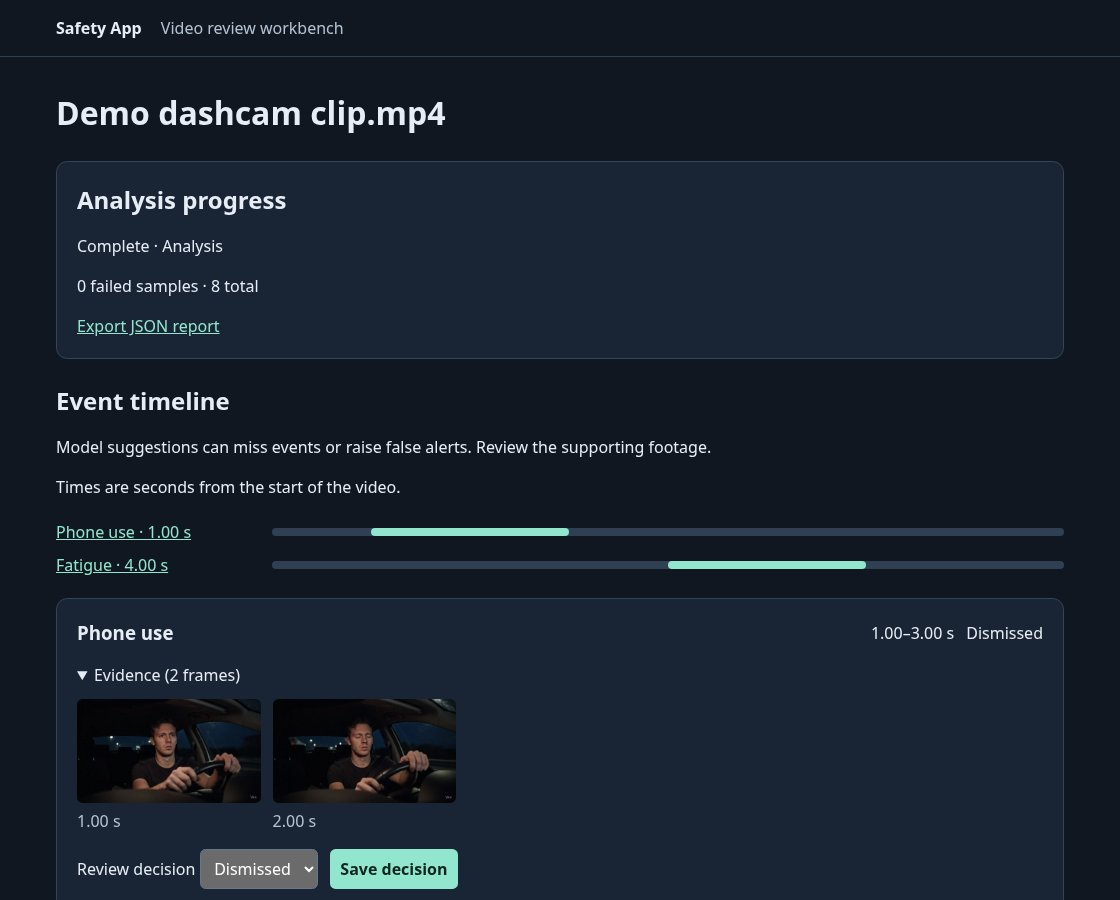
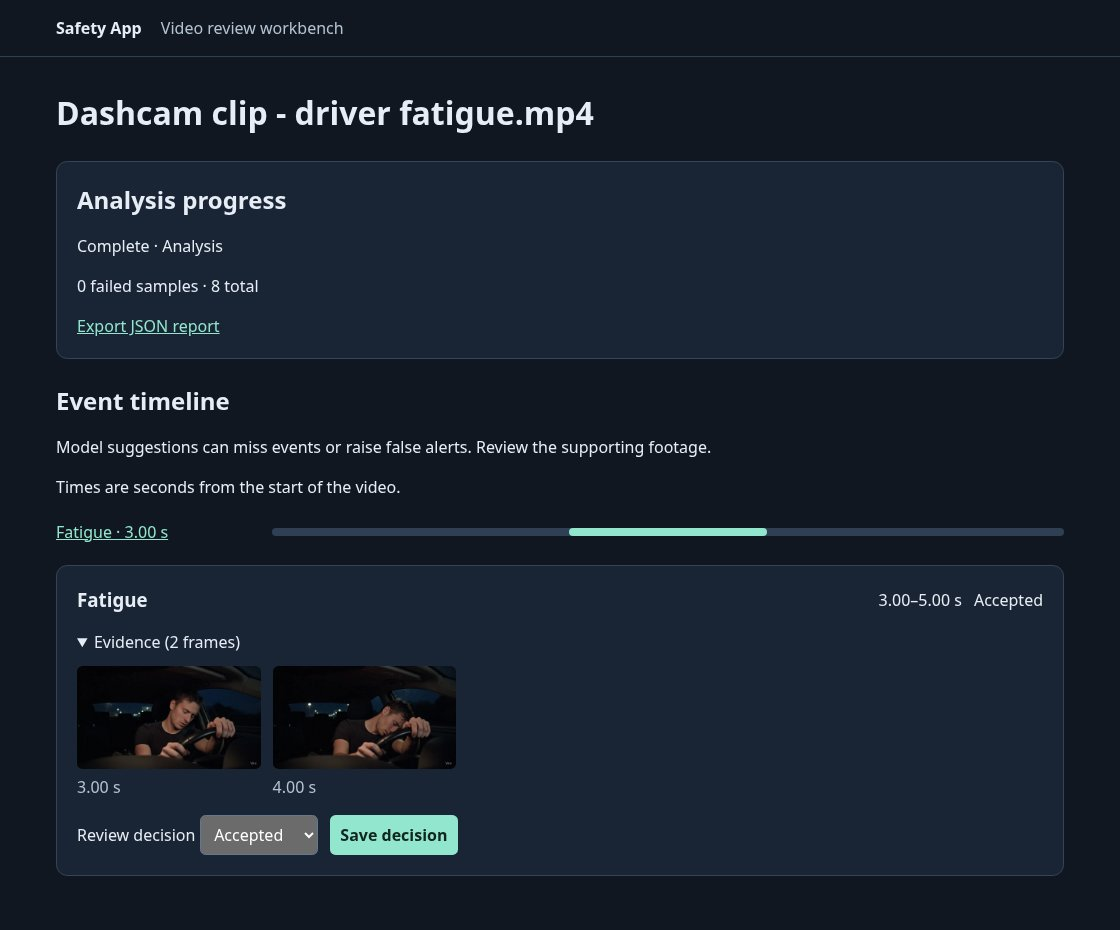
Show driver fatigue in the demo screenshot

diff --git a/README.md b/README.md
@@ -2,9 +2,9 @@
 
 ## Demo
 
-The event timeline shows two scripted detections from the repository’s sample dashcam clip. The reviewer expanded the supporting frames and dismissed the phone-use alert. The reviewed report is available through **Export JSON report**.
+The event timeline shows a scripted fatigue event from the repository’s sample dashcam clip. The reviewer accepted the event after inspecting frames at 3 and 4 seconds, where the driver’s head dips. The reviewed report is available through **Export JSON report**.
 
-![Safety App event timeline showing timestamped evidence and a dismissed phone-use alert](docs/demo-review.jpg)
+![Safety App event timeline showing timestamped evidence and an accepted fatigue event](docs/demo-review.jpg)
 
 ## Run locally
 
